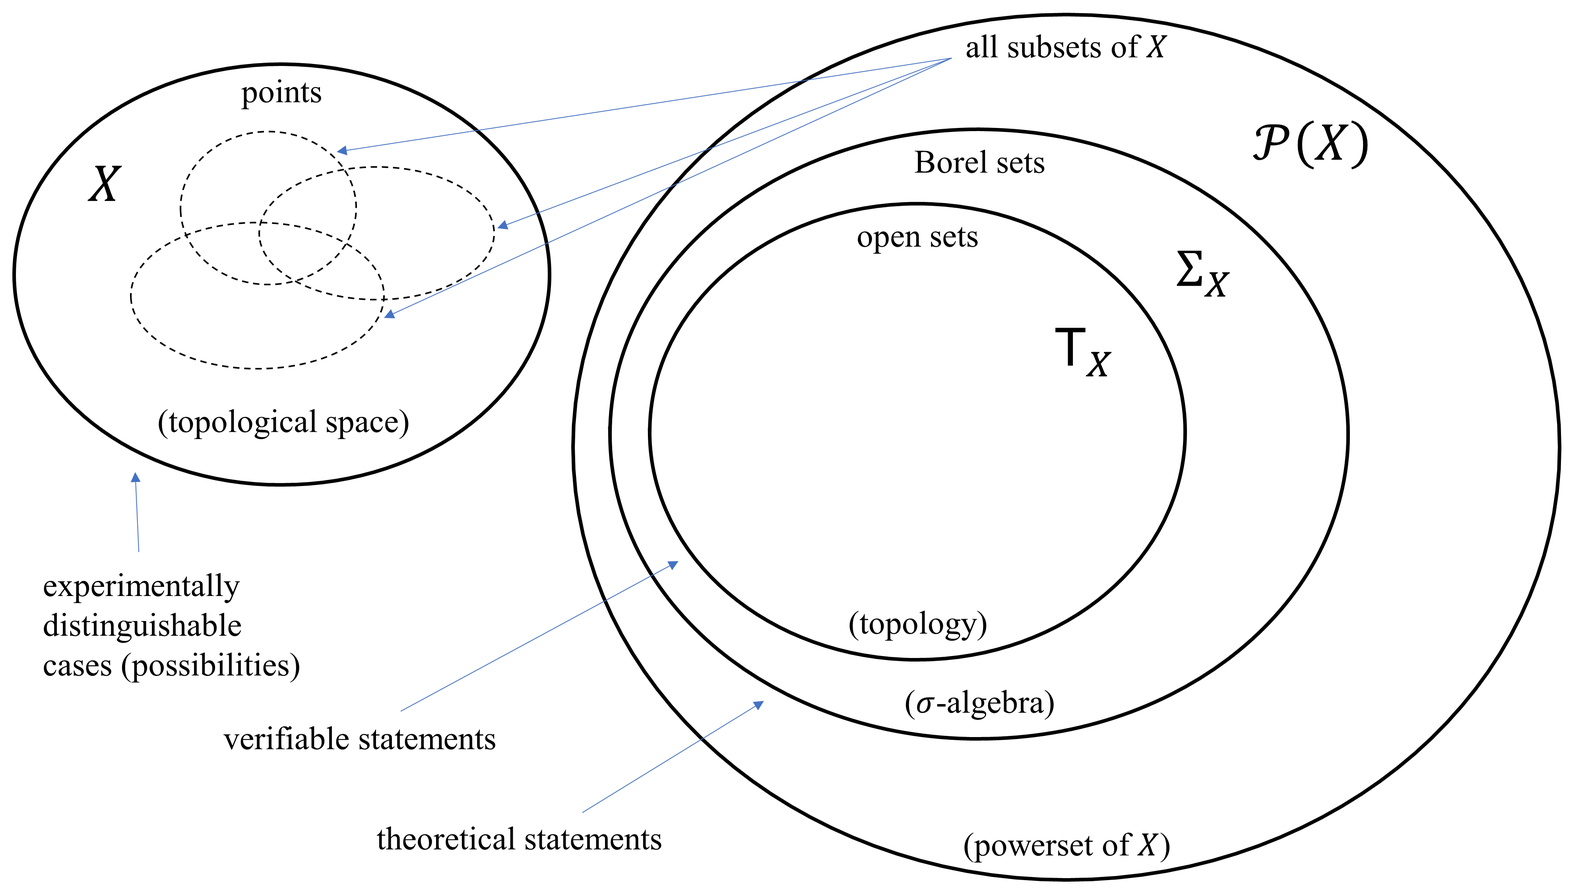
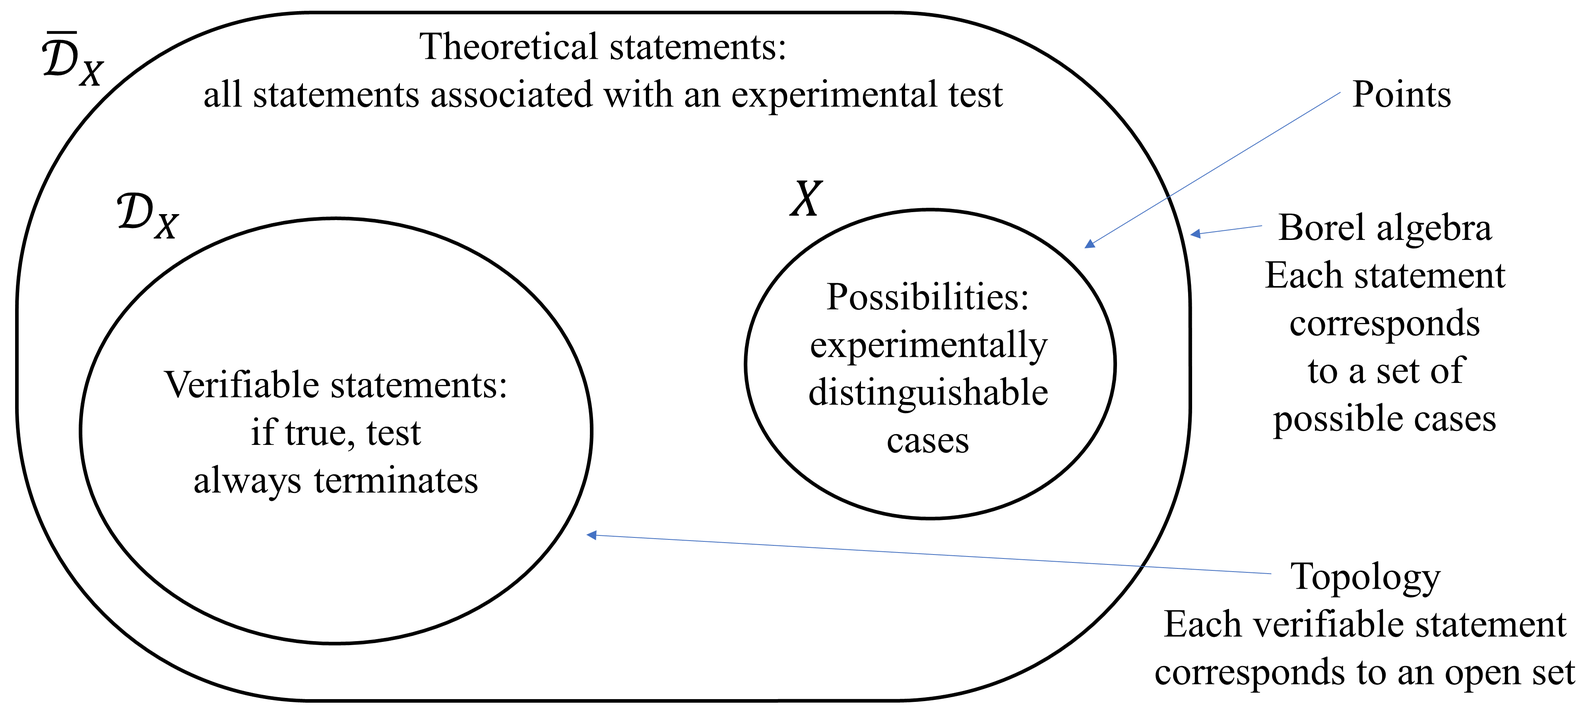
Another pass at exp ver overview

diff --git a/Overviews/Experimental verifiability/ExperimentalVerifiabilityOverview.tex b/Overviews/Experimental verifiability/ExperimentalVerifiabilityOverview.tex
@@ -31,7 +31,7 @@
 
 
 \begin{abstract}
-We briefly show how the use of topological spaces and $\sigma$-algebras in physics can be rederived and understood as the fundamental requirement of experimental verifiability. A set of experimentally distinguishable objects will necessarily be endowed with a topology that is Kolmogorov (i.e. $T_0$) and second countable, which puts severe constrains on the space of well-formed scientific theories. These idea can be taken as a first step in a general mathematical theory for experimental science. This work is an overview of some of the results of Assumptions of Physics, a project that aims to identify a handful of physical principles from which the basic laws can be rigorously derived  (\url{https://assumptionsofphysics.org}).
+We briefly show how the use of topological spaces and $\sigma$-algebras in physics can be rederived and understood as the fundamental requirement of experimental verifiability. We will see that a set of experimentally distinguishable objects will necessarily be endowed with a topology that is Kolmogorov (i.e. $T_0$) and second countable, which both puts constraints on well-formed scientific theories and allow us to give concrete physical meaning to the mathematical constructs. These insights can be taken as a first step in a general mathematical theory for experimental science. This work is an overview of some of the results of Assumptions of Physics, a project that aims to identify a handful of physical principles from which the basic laws can be rigorously derived  (\url{https://assumptionsofphysics.org}).
 \end{abstract}
 
 \maketitle
@@ -44,23 +44,26 @@ The overall structure (see \cite{AoPBook} for more details) can be summed up in 
 	\includegraphics[width=\columnwidth]{Diagram.png}
 \end{figure}
 
-The set of points of a topological space represents the possible cases (e.g. all possible values for the mass of a particle). Each element in the topology (i.e. each open set) represents a statement that can be experimentally verified (e.g. the mass of the particle is within a finite precision interval). Each element in the Borel algebra represent a statement that, though it may or may not be experimentally verified, is sound within the theory (e.g. the mass of the particle is exactly zero, the mass of the particle is an irrational number). The Assumptions of Physics framework rederives this structure from the idea that a scientific theory must be logically consistent and evidence based.
+A theoretical domain $\tdomain_X$ contains all the statements about a scientific object that can be associated to an experimental test, which we call theoretical statements.\footnote{For example, all the possible statements about the mass of a particle.} Within this set we find the possibilities which describe the possible cases that can be experimentally distinguished\footnote{For example, \statement{the mass of the particle is exactly zero.}}. Not all tests are guaranteed to always terminate,\footnote{For example, infinite precision measurements are only possible as the limit of an infinite sequence of finite precision measurements.} so we find the subset $\edomain_X$ of the verifiable statements, called experimental domain, for which successful termination coincides with the truth of the statement.\footnote{For example, \statement{the mass of the particle is less than 100 GeV.}}
+
+The possibilities corresponds to the points of our spaces. The experimental domain corresponds to the topology, where each open set corresponds to an open set.\footnote{For example, \statement{the mass of the particle is less than 100 GeV} corresponds to the open set $[0, 100)$.} The theoretical domain corresponds to the Borel algebra.
+
 
 \section{Logical context and fundamental axioms}
 
-\partitle{Principle of scientific objectivity} The guiding principle is that \emph{science is universal, non-contradictory and evidence based.} This means that any scientific theory must specify a set of \textbf{statements} that are logically consistent, whose truth can be confirmed experimentally by everybody. This starting point is codified in the axioms that form the formal foundation of the theory.
+\partitle{Principle of scientific objectivity} The guiding principle is that \emph{science is universal, non-contradictory and evidence based.} This means that any scientific theory must specify a set of \textbf{statements} that are logically consistent, whose truth can be confirmed experimentally by everybody. This starting point is codified in the following axioms, that form the formal foundation of our theory.
 
-\partitle{Axioms of logic} The first set of axioms ensure the theory is universal and non-contradictory. The \emph{axiom of context} tells us that statements are organized into a \textbf{logical context} $\logCtx$, and a well defined truth value for each statement must exist. This recognizes that the logical consistency and meaning of each statement relies on definitions and relationships that depends on the context\footnote{For example, if one is performing particle identification, the mass of an electron is assumed to be given. If one is measuring the mass, the identify is assumed to be given, which the value of the mass is unknown.}, on a set of statements.
+\partitle{Axioms of logic} The first set of axioms ensure the theory is universal and non-contradictory. The \emph{axiom of context} tells us that statements are organized into a \textbf{logical context} $\logCtx$, and a well defined truth value for each statement must exist. This recognizes that the logical consistency and meaning of each statement relies on definitions and relationships that depend on the context\footnote{For example, if one is performing particle identification, the mass of an electron is assumed to be given. If one is measuring the mass, the identify is assumed to be given, which the value of the mass is unknown.}, on a set of statements.
 
 The \emph{axiom of possibility} tell us that the statements in a context cannot be assigned arbitrary truth values, but only in a way that is consistent with the meaning defined by the context.\footnote{For example, \statement{the mass of the object is one kilogram} and \statement{the mass of the object is two kilograms} cannot be both true.} Therefore each context comes with a set $\pAss$ of possible assignments, where each possible assignment is a function $a : \logCtx \to \Bool$ that returns a value of truth for each statement. The truth is a possible assignment.
 
 The \emph{axiom of closure} tells us that we can always find a statements whose truth arbitrarily depends on the truth of other statements.
 
-\partitle{Logical relationships} The logic axioms entail that each logical context is a complete Boolean algebra. They allow us to define useful relationship such as: equivalence $\equiv$ (i.e. statements that must be equally true or false); narrowness (i.e. a statement is more specific than another)\footnote{For example, \statement{the mass of the object is between 4 and 5 kilograms} is narrower than \statement{the mass of the object is between 0 and 100 kilograms}.}; compatibility $\comp$ (i.e. whether two statement can be true at the same time); independence $\indep$ (i.e. whether the truth of some statements constrains the truth of others). This basic structure constrains any further mathematical structure as the two will have to interact appropriately.
+\partitle{Logical relationships} The logic axioms entail that each logical context is a complete Boolean algebra. They allow us to define useful relationship such as: equivalence $\equiv$ (i.e. statements that must be equally true or false); narrowness (i.e. a statement is more specific than another)\footnote{For example, \statement{the mass of the object is between 4 and 5 kilograms} is narrower than \statement{the mass of the object is between 0 and 100 kilograms}. Narrowness can also be understood as implication.}; compatibility $\comp$ (i.e. whether two statement can be true at the same time); independence $\indep$ (i.e. whether the truth of some statements constrains the truth of others). This basic structure constrains any further mathematical structure as they will have to interact appropriately.
 
-\partitle{Axioms of verifiability} This set of axioms capture the rules of experimental verifiability. The \emph{axiom of verifiability} tells us that some statements are \textbf{verifiable}, meaning we have a test at our disposal that will terminate successfully in finite time if and only if the statement is true. Note that the test is not guaranteed to terminate, to give an answer, if the test is false.\footnote{For example, a test for \statement{there exists extra-terrestrial life} may terminate successfully if life is found, but it will not be conclusive if life is not found. On the other hand, \statement{the mass of the particle is exactly 0 eV} can be experimentally disproved, but can never be confirmed due to finite precision.} Therefore the negation of a verifiable statement is not necessarily verifiable. It also tells us that a statement equivalent to a verifiable statement is verifiable, as we can use the test of the second to test the first.
+\partitle{Axioms of verifiability} This set of axioms capture the rules of experimental verifiability. The \emph{axiom of verifiability} tells us that some statements are \textbf{verifiable}, meaning we have a test at our disposal that will terminate successfully in finite time if and only if the statement is true. Note that the test is not guaranteed to terminate, to give an answer, if the statement is false.\footnote{For example, a test for \statement{there exists extra-terrestrial life} may terminate successfully if life is found, but it will not be conclusive if life is not found. On the other hand, \statement{the mass of the particle is exactly 0 eV} can be experimentally disproved, but can never be confirmed due to finite precision.} Therefore the negation of a verifiable statement is not necessarily verifiable. It also tells us that a statement equivalent to a verifiable statement is verifiable, as we can use the test of the second to test the first.
 
-The remaining two axioms tell us that the finite conjunction and the countable disjunction of verifiable statements is verifiable. That is, we can use the tests of the statement to construct the test for the logical AND (i.e. check that all tests terminates successfully) and the logical OR (i.e. check that at least one test terminates). The disjunction can be extended to a countable set because we only need one test to terminate successfully in a finite time, not all of them.
+The remaining two axioms tell us that the finite conjunction and the countable disjunction of verifiable statements are verifiable. That is, we can use the tests of the given statements to construct the test for the logical AND (i.e. check that all tests terminates successfully) and the logical OR (i.e. check that at least one test terminates successfully). The disjunction can be extended to a countable set because we only need one test to terminate successfully in a finite time, not all of them.
 
 \partitle{Decidability} A \textbf{falsifiable} statement is one whose negation is falsifiable. A \textbf{decidable} statement is one that is both verifiable and falsifiable. The finite conjunction/disjunction and negation of decidable statements are decidable.
 
@@ -82,13 +85,13 @@ The remaining two axioms tell us that the finite conjunction and the countable d
 
 \section{Experimental and theoretical domains}
 
-\partitle{Experimental domains} The next step is to group together verifiable statements that characterize the same physical object (e.g. all the statements that describe the state of a system or the properties of an object). We call such a group an \textbf{experimental domain} $\edomain$ and it will have at least two characteristics. First of all, it will be closed under finite conjunction (i.e. logical AND) and countable disjunction (i.e. logical OR) since these are exactly the operations that give us other verifiable statements. Second, it cannot be too big: we must be able to explore it fully given an arbitrarily long amount of time. Formally, it can be generated from a countable subset of verifiable statements through finite conjunction and countable disjunction, it must have a countable \textbf{base}. This means the tests for all statements in the domain can be generated from the tests of the base, therefore running those countably many tests is enough to test the whole domain.
+\partitle{Experimental domains} The next step is to group together verifiable statements that characterize the same physical object (e.g. all the statements that describe the state of a system or the properties of an object). We call such a group an \textbf{experimental domain} $\edomain_X \subseteq \logCtx$ and it will have at least two characteristics. First of all, it will be closed under finite conjunction (i.e. logical AND) and countable disjunction (i.e. logical OR) since these are exactly the operations that give us other verifiable statements. Second, it cannot be too big: we must be able to explore it fully given an arbitrarily long amount of time. Formally, it can be generated from a countable subset of verifiable statements through finite conjunction and countable disjunction, it must have a countable \textbf{base}. This means the tests for all statements in the domain can be generated from the tests of the base, therefore running those countably many tests is enough to test the whole domain.
 
-\partitle{Theoretical domains} While the verifiable statements define all the testing procedures that are available in some domain, they are not the only valid statements in a scientific theory.\footnote{For example, \statement{the mass of the photon is exactly 0 eV} is not something we can verify due to the limited precision of our statements, yet it is something we want to be able to say in our theory.} We are interested in all statement that can be assigned an experimental test, regardless of its terminating conditions. We call these \textbf{theoretical statements} and we group them into a \textbf{theoretical domain} $\tdomain$. This is generated from experimental domain by closing under negation and countable disjunction.
+\partitle{Theoretical domains} While the verifiable statements define all the testing procedures that are available in some domain, they are not the only valid statements in a scientific theory.\footnote{For example, \statement{the mass of the photon is exactly 0 eV} is not something we can verify due to the limited precision of our statements, yet it is something we want to be able to say in our theory.} We are interested in all statements that can be assigned an experimental test, regardless of its terminating conditions. We call these \textbf{theoretical statements} and we group them into a \textbf{theoretical domain} $\tdomain_X$. This is generated from experimental domain by closing under negation and countable disjunction.
 
 \partitle{Possibilities} Within a theoretical domain we find the \textbf{possibilities} $X$ of the domain $\edomain_X$. These are statements that give the narrowest description possible and, if assumed to be true, tell us the truth value for all other statements. The set of possibilities represent all the possible cases that can be distinguished by the experimental domain.\footnote{For example, if the domain characterizes the state of a bead along the wire, ``the position of the bead is 3 meters and the velocity is zero meters per second'' is a possibility because it characterizes the truth value of all possible experimentally verifiable finite precision descriptions.}
 
-\partitle{Correspondence to topologies and $\sigma$-algebras} Every statement in the domain can be characterize by the set of possibilities for which the statement is true. Therefore, we have a correspondence between sets and statement that preserves the structure. Under this correspondence, the experimental domain induces a topology where each open set represents a verifiable statement, while the theoretical domain induces a $\sigma$-algebra where each Borel set is a theoretical statement. The topology is at least $T_0$ and second countable while the Borel algebra is countably generated (and therefore separable), which make them extremely well-behaved.
+\partitle{Correspondence to topologies and $\sigma$-algebras} Every statement in the domain can be characterized by the set of possibilities for which the statement is true. Therefore, we have a correspondence between sets and statements where the logic operations become the set operations. Under this correspondence, the experimental domain induces a topology where each open set represents a verifiable statement, while the theoretical domain induces a $\sigma$-algebra where each Borel set is a theoretical statement. The topology is at least $T_0$ and second countable while the Borel algebra is countably generated (and therefore separable), which make them extremely well-behaved.
 
 \partitle{On the significance of mathematical structures} \textbf{The existence of well-behaved topologies and $\sigma$-algebra is a direct consequence of the requirement of experimental verifiabiliy.}\footnote{Philosophically, one may say that it is not an ontological attribute of the system being studied, but rather a characterization of its epistemically accessible characteristics. There is no reason to assume that ontological entities would follow such constrain.} Another important aspect is that \textbf{the points are not the starting point, but rather they are generated from the verifiable statements.} If we change what is being characterized (e.g. add measurements of spin to those of the position and momentum of an electron) the points of the space will change.\footnote{Philosophically, the points themselves cannot be understood as some complete ontological entity, but rather the epistemically accessible characteristics under a set of given circumstances.}
 
@@ -106,11 +109,13 @@ The remaining two axioms tell us that the finite conjunction and the countable d
 
 \partitle{Causal relationship} Intuitively, a \textbf{causal relationship} between two domains $\edomain_X$ and $\edomain_Y$ means that if we determine which possibility $x \in X$ is true in the first domain, then this will also tell us what possibility $y \in Y$ is true in the second. That is, a causal relationship is a map $f : X \to Y$ such that $x \narrower f(x)$: if $x$ is true so is $f(x)$. An important result is that \textbf{causal relationships must be continuous} in the natural topology. Continuity, therefore, is a necessary requirement, not a desired property. We stress that this is topological continuity, and not necessarily analytical continuity.\footnote{Analytical continuity breaks down on discrete points, which mean on decidable possibilities. For example, whether a mixture of water, ice and water vapor is at the triple point of water is decidable, and therefore we can expect analytical discontinuities there, and in other phase transitions.}
 
-\partitle{Experimental relationships and domain dependence} Two domains admit an inference relationship if and only if they admit a causal relationship. We use the term \textbf{experimental relationship} to describe the link between the domains and we say $\edomain_X$ \textbf{depends on} $\edomain_Y$, noted $\edomain_X \subseteq \edomain_Y$. Note that the inference works in the opposite direction of the cause. The link between inference and causation is very important. Inference relationships are defined over verifiable statements, which are our link to experimental verification. This is desirable to have the most direct connection between relationships and experimental verification. However, inference our highly redundant\footnote{For example, an inference relationship will tell us how every finite precision measurement of the height of a mercury column would correspond to finite precision measurements of temperature.} and therefore they are less prominently used. On the other hand, causal relationships are defined over the possibilities, which are less directly related to experimental verification. Yet, they are a lot more compact\footnote{For example, a causal relationship will tell us what infinitely precise height of the mercury column will correspond to each infinitely precise value of temperature.} and therefore more practical. The link between them tells us that we can always go between one and the other, so we can use causal relationships almost exclusively.
+\partitle{Experimental relationships and domain dependence} An important result is that \textbf{two domains admit an inference relationship if and only if they admit a causal relationship}. We use the term \textbf{experimental relationship} to describe the link between the domains and we say $\edomain_X$ \textbf{depends on} $\edomain_Y$, noted $\edomain_X \subseteq \edomain_Y$. Note that the inference works in the opposite direction of the cause.
 
-\partitle{Domain combination} Given a countable set of experimental domains $\{\edomain_X\}_{i=1}^{\infty}$, the combined domain is the experimental domain of all the verifiable statements generated by the other domain. Formally, it is the closure under finite conjunction and countable disjunction. The possibilities of the combined domain can be understood as a subset of a scalar product of the possibilities of all domains. The fewer correlations between the different domains, the bigger the set of combined possibilities. If the domains are independent, all combinations in the scalar product will correspond to a possibility for the combined domain. Moreover, the topology will be the product topology of the domains. If one domain depends on another, their combined domain will be equivalent to the second: no new possibilities are added. If the domains are incompatible, then the possibilities of the combined domain are the disjoint union and the topology will be the disjoint union topology.
+The link between inference and causation is very important. Inference relationships are defined over verifiable statements, which are our link to experimental verification, and therefore have a higher status in the theory. Unfortunately they are highly redundant\footnote{For example, an inference relationship will tell us how every finite precision measurement of the height of a mercury column would correspond to finite precision measurements of temperature.} and therefore harder to work with. On the other hand, causal relationships are defined over the possibilities, which are less directly related to experimental verification, but they are a lot more compact\footnote{For example, a causal relationship will tell us what infinitely precise height of the mercury column will correspond to each infinitely precise value of temperature.} and therefore more practical. The link between them tells us that we can always go between one and the other, so we can use causal relationships knowing that they are as experimentally well-defined as their counterparts.
 
-\partitle{Relationship domain} Given two experimental domain, we can construct a domain where the possibilities are the possible relationships between the domain. We call this the \textbf{relationship domain}. We can proceed recursively and construct domains of higher order functions, without going outside the mathematical framework. There is, however, a caveat: the construction of this domain requires the existence and construction of a logical meta-context. Therefore, while we can show that mathematically the construction can always be done, there is no guarantee that the statements are verifiable. That is: we cannot construct tests that verify relationships between quantities from tests that simply verify the values of the quantities.\footnote{That is, being able to verify particular values of temperature and pressure is not enough to be able to verify whether to a particular value of temperature always corresponds a particular value of pressure.}
+\partitle{Domain combination} Given a countable set of experimental domains $\{\edomain_X\}_{i=1}^{\infty}$, the combined domain is the experimental domain of all the verifiable statements generated by them. Formally, it is the closure under finite conjunction and countable disjunction.\footnote{For example, we take the domains of different quantities of an object to form the domain of its state.} The possibilities of the combined domain can be understood as a subset of a scalar product of the possibilities of all domains.\footnote{For example, the value of all the quantities provided by each domain.} The fewer correlations between the different domains, the bigger the set of combined possibilities. If the domains are independent, all combinations in the scalar product will correspond to a possibility for the combined domain. Moreover, the topology will be the product topology of the domains. If one domain depends on another, their combined domain will be equivalent to the second: no new possibilities are added. If the domains are incompatible, then the possibilities of the combined domain are the disjoint union and the topology will be the disjoint union topology.
+
+\partitle{Relationship domain} Given two experimental domains, we can construct a domain where the possibilities are the possible relationships between the domain. We call this the \textbf{relationship domain}. We can proceed recursively and construct domains of higher order functions, without going outside the mathematical framework. There is, however, a caveat: the construction of this domain requires the existence and construction of a logical meta-context. Therefore, while we can show that mathematically the construction can always be done, there is no guarantee that the statements are verifiable. That is: we cannot construct tests that verify relationships between quantities from tests that simply verify the values of the quantities.\footnote{That is, being able to verify particular values of temperature and pressure is not enough to be able to verify whether to a particular value of temperature always corresponds a particular value of pressure.}
 
 \bibliography{bibliography}
 
